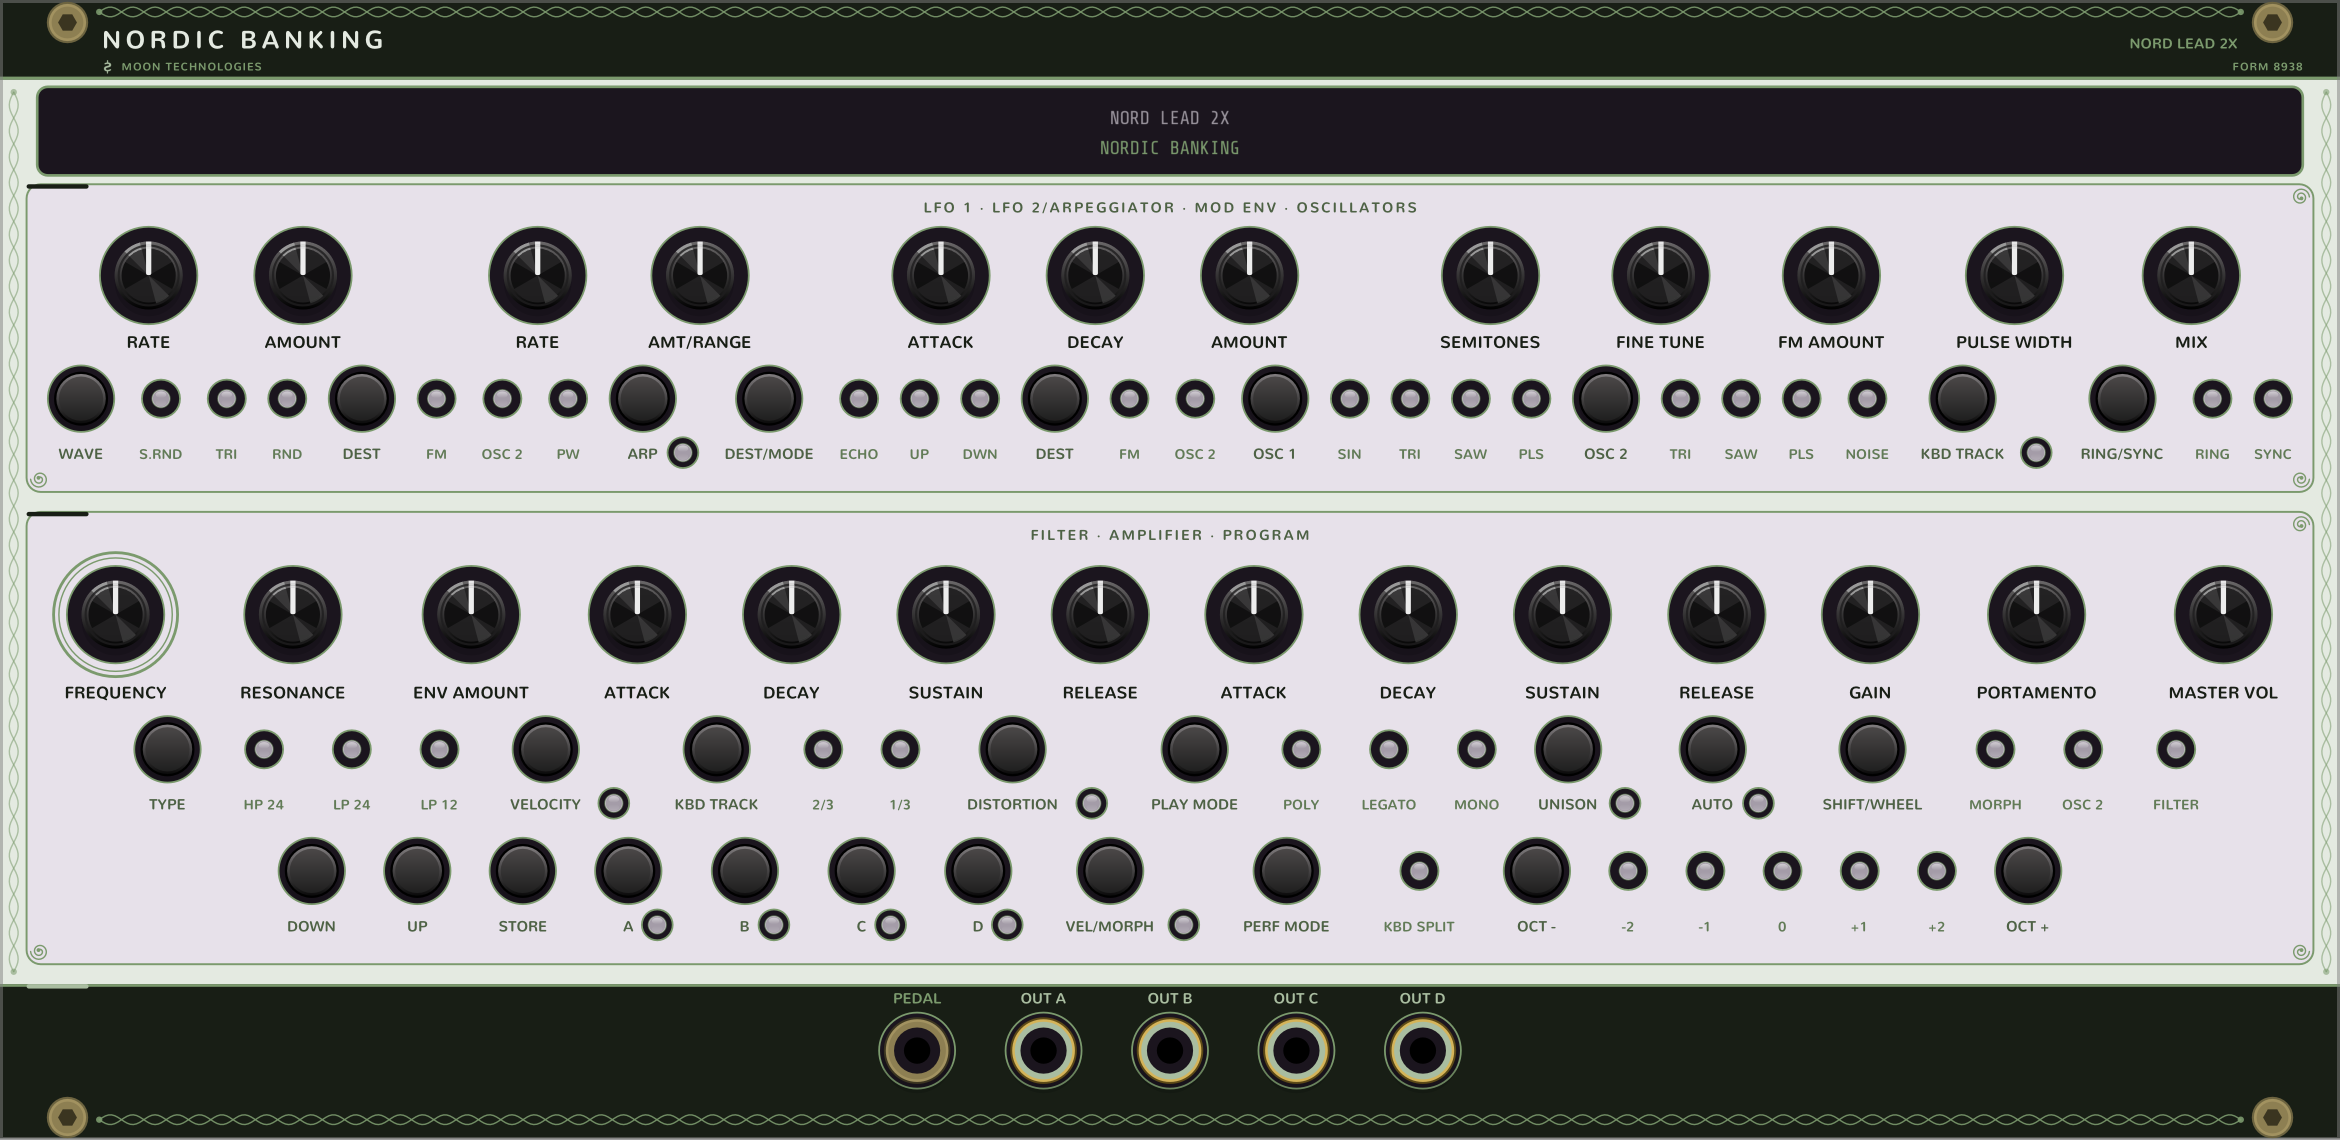
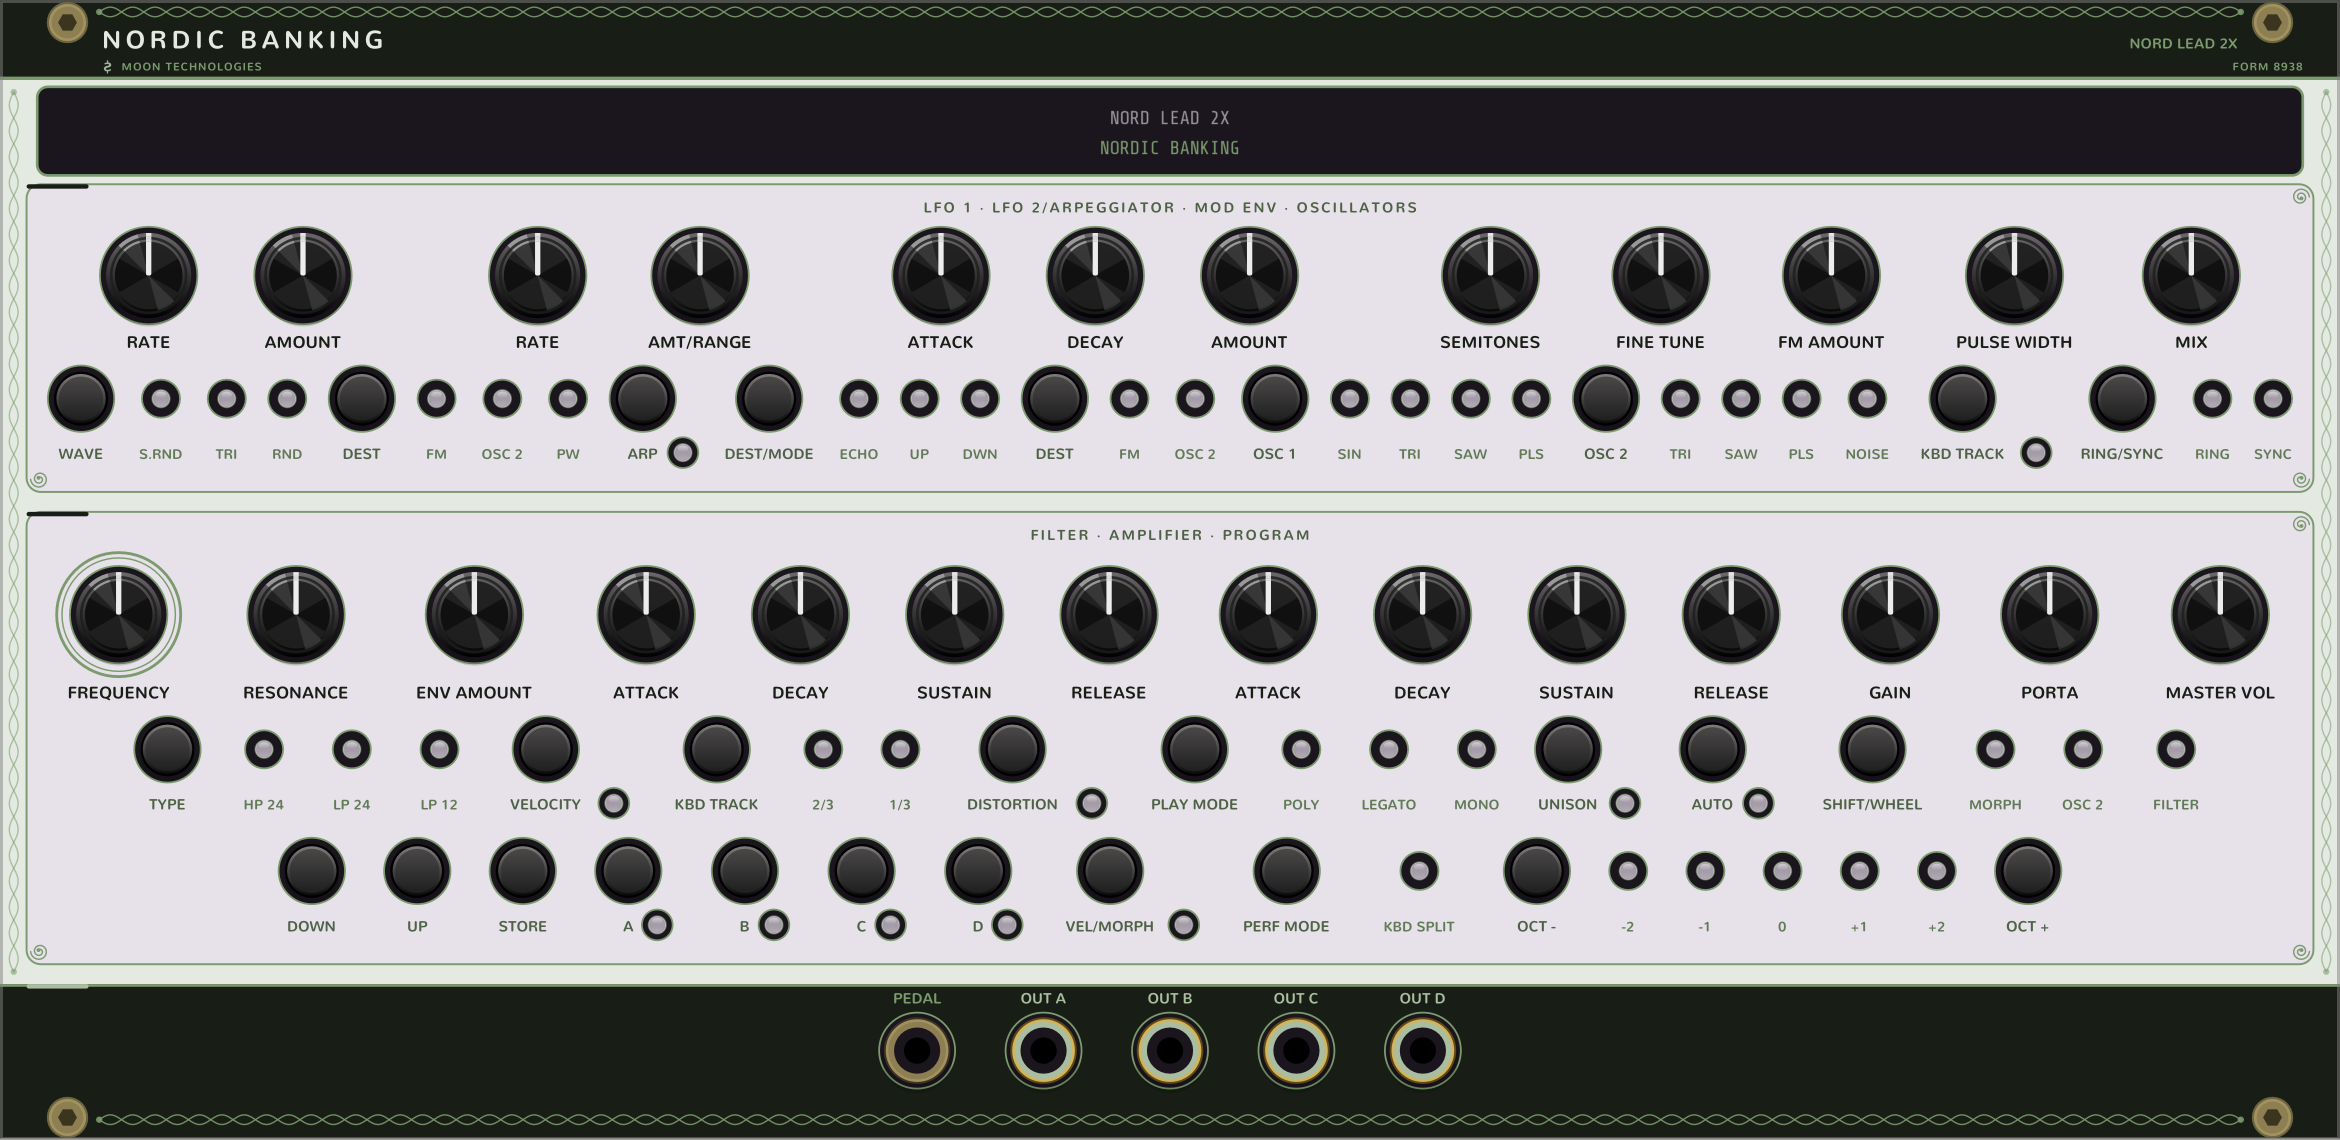
Three knob sizes: Contagion and Nordic build the standard knob; Contagion preset glass
The family has three knob sizes -- large (RoundLargeBlackKnob), standard
(RoundBlackKnob) and small (Trimpot). Contagion and Nordic Banking declared
standard knobs in their specs but built Rack's 7.7 mm RoundSmallBlackKnob, so
their seats and clearances were sized for a knob a millimetre bigger than the
one on the panel. They now build RoundBlackKnob, matching the specs; the panel
art is unchanged. (A Trimpot was tried first and bought no width: label widths
set those panels' pitch.) Nordic's PORTAMENTO label becomes PORTA.

Contagion also: the PRESET glass is composed from the edit buffer's name and the
sound's label in single mode, so it no longer depends on catching the program
screen on the LCD; a lower-case bank letter (an edited sound) is read as its
bank; FILTERS EDIT is no longer counted as a menu.

diff --git a/src/NordicBanking/Panel.hpp b/src/NordicBanking/Panel.hpp
@@ -83,20 +83,20 @@ static const Label LABELS[] = {
 	{249.7600f,  51.8517f,  5.80f, 0.00f, LIME_DARK, NVG_ALIGN_CENTER | NVG_ALIGN_BASELINE, false, "RING"},
 	{256.6029f,  51.8517f,  5.80f, 0.00f, LIME_DARK, NVG_ALIGN_CENTER | NVG_ALIGN_BASELINE, false, "SYNC"},
 	{132.0800f,  60.9847f,  6.00f, 0.60f, SAGE_DARK, NVG_ALIGN_CENTER | NVG_ALIGN_BASELINE, false, "FILTER · AMPLIFIER · PROGRAM"},
-	{ 13.0475f,  78.8915f,  7.00f, 0.00f, INK      , NVG_ALIGN_CENTER | NVG_ALIGN_BASELINE, false, "FREQUENCY"},
-	{ 33.0685f,  78.8915f,  7.00f, 0.00f, INK      , NVG_ALIGN_CENTER | NVG_ALIGN_BASELINE, false, "RESONANCE"},
-	{ 53.2016f,  78.8915f,  7.00f, 0.00f, INK      , NVG_ALIGN_CENTER | NVG_ALIGN_BASELINE, false, "ENV AMOUNT"},
-	{ 71.9545f,  78.8915f,  7.00f, 0.00f, INK      , NVG_ALIGN_CENTER | NVG_ALIGN_BASELINE, false, "ATTACK"},
-	{ 89.3745f,  78.8915f,  7.00f, 0.00f, INK      , NVG_ALIGN_CENTER | NVG_ALIGN_BASELINE, false, "DECAY"},
-	{106.7945f,  78.8915f,  7.00f, 0.00f, INK      , NVG_ALIGN_CENTER | NVG_ALIGN_BASELINE, false, "SUSTAIN"},
-	{124.2145f,  78.8915f,  7.00f, 0.00f, INK      , NVG_ALIGN_CENTER | NVG_ALIGN_BASELINE, false, "RELEASE"},
-	{141.5554f,  78.8915f,  7.00f, 0.00f, INK      , NVG_ALIGN_CENTER | NVG_ALIGN_BASELINE, false, "ATTACK"},
-	{158.9754f,  78.8915f,  7.00f, 0.00f, INK      , NVG_ALIGN_CENTER | NVG_ALIGN_BASELINE, false, "DECAY"},
-	{176.3954f,  78.8915f,  7.00f, 0.00f, INK      , NVG_ALIGN_CENTER | NVG_ALIGN_BASELINE, false, "SUSTAIN"},
-	{193.8154f,  78.8915f,  7.00f, 0.00f, INK      , NVG_ALIGN_CENTER | NVG_ALIGN_BASELINE, false, "RELEASE"},
-	{211.1564f,  78.8915f,  7.00f, 0.00f, INK      , NVG_ALIGN_CENTER | NVG_ALIGN_BASELINE, false, "GAIN"},
-	{229.9093f,  78.8915f,  7.00f, 0.00f, INK      , NVG_ALIGN_CENTER | NVG_ALIGN_BASELINE, false, "PORTAMENTO"},
-	{251.0005f,  78.8915f,  7.00f, 0.00f, INK      , NVG_ALIGN_CENTER | NVG_ALIGN_BASELINE, false, "MASTER VOL"},
+	{ 13.3977f,  78.8915f,  7.00f, 0.00f, INK      , NVG_ALIGN_CENTER | NVG_ALIGN_BASELINE, false, "FREQUENCY"},
+	{ 33.4188f,  78.8915f,  7.00f, 0.00f, INK      , NVG_ALIGN_CENTER | NVG_ALIGN_BASELINE, false, "RESONANCE"},
+	{ 53.5518f,  78.8915f,  7.00f, 0.00f, INK      , NVG_ALIGN_CENTER | NVG_ALIGN_BASELINE, false, "ENV AMOUNT"},
+	{ 72.9415f,  78.8915f,  7.00f, 0.00f, INK      , NVG_ALIGN_CENTER | NVG_ALIGN_BASELINE, false, "ATTACK"},
+	{ 90.3615f,  78.8915f,  7.00f, 0.00f, INK      , NVG_ALIGN_CENTER | NVG_ALIGN_BASELINE, false, "DECAY"},
+	{107.7815f,  78.8915f,  7.00f, 0.00f, INK      , NVG_ALIGN_CENTER | NVG_ALIGN_BASELINE, false, "SUSTAIN"},
+	{125.2015f,  78.8915f,  7.00f, 0.00f, INK      , NVG_ALIGN_CENTER | NVG_ALIGN_BASELINE, false, "RELEASE"},
+	{143.1792f,  78.8915f,  7.00f, 0.00f, INK      , NVG_ALIGN_CENTER | NVG_ALIGN_BASELINE, false, "ATTACK"},
+	{160.5992f,  78.8915f,  7.00f, 0.00f, INK      , NVG_ALIGN_CENTER | NVG_ALIGN_BASELINE, false, "DECAY"},
+	{178.0192f,  78.8915f,  7.00f, 0.00f, INK      , NVG_ALIGN_CENTER | NVG_ALIGN_BASELINE, false, "SUSTAIN"},
+	{195.4392f,  78.8915f,  7.00f, 0.00f, INK      , NVG_ALIGN_CENTER | NVG_ALIGN_BASELINE, false, "RELEASE"},
+	{213.4169f,  78.8915f,  7.00f, 0.00f, INK      , NVG_ALIGN_CENTER | NVG_ALIGN_BASELINE, false, "GAIN"},
+	{231.3947f,  78.8915f,  7.00f, 0.00f, INK      , NVG_ALIGN_CENTER | NVG_ALIGN_BASELINE, false, "PORTA"},
+	{250.6503f,  78.8915f,  7.00f, 0.00f, INK      , NVG_ALIGN_CENTER | NVG_ALIGN_BASELINE, false, "MASTER VOL"},
 	{ 18.9066f,  91.4363f,  6.20f, 0.00f, SAGE_DARK, NVG_ALIGN_CENTER | NVG_ALIGN_BASELINE, false, "TYPE"},
 	{ 29.8130f,  91.4363f,  5.80f, 0.00f, LIME_DARK, NVG_ALIGN_CENTER | NVG_ALIGN_BASELINE, false, "HP 24"},
 	{ 39.7158f,  91.4363f,  5.80f, 0.00f, LIME_DARK, NVG_ALIGN_CENTER | NVG_ALIGN_BASELINE, false, "LP 24"},
@@ -192,20 +192,20 @@ static const Vec RINGMOD_POS = Vec(249.7600, 45.0058);
 static const Vec SYNC_POS = Vec(256.6029, 45.0058);
 static const Vec ARP_POS = Vec(77.0945, 51.0958);
 static const Vec OSC2_KBD_POS = Vec(229.8670, 51.0958);
-static const Vec CUTOFF_POS = Vec(13.0475, 69.3847);
-static const Vec RESO_POS = Vec(33.0685, 69.3847);
-static const Vec F_ENV_POS = Vec(53.2016, 69.3847);
-static const Vec F_A_POS = Vec(71.9545, 69.3847);
-static const Vec F_D_POS = Vec(89.3745, 69.3847);
-static const Vec F_S_POS = Vec(106.7945, 69.3847);
-static const Vec F_R_POS = Vec(124.2145, 69.3847);
-static const Vec A_A_POS = Vec(141.5554, 69.3847);
-static const Vec A_D_POS = Vec(158.9754, 69.3847);
-static const Vec A_S_POS = Vec(176.3954, 69.3847);
-static const Vec A_R_POS = Vec(193.8154, 69.3847);
-static const Vec GAIN_POS = Vec(211.1564, 69.3847);
-static const Vec PORTA_POS = Vec(229.9093, 69.3847);
-static const Vec VOLUME_POS = Vec(251.0005, 69.3847);
+static const Vec CUTOFF_POS = Vec(13.3977, 69.3847);
+static const Vec RESO_POS = Vec(33.4188, 69.3847);
+static const Vec F_ENV_POS = Vec(53.5518, 69.3847);
+static const Vec F_A_POS = Vec(72.9415, 69.3847);
+static const Vec F_D_POS = Vec(90.3615, 69.3847);
+static const Vec F_S_POS = Vec(107.7815, 69.3847);
+static const Vec F_R_POS = Vec(125.2015, 69.3847);
+static const Vec A_A_POS = Vec(143.1792, 69.3847);
+static const Vec A_D_POS = Vec(160.5992, 69.3847);
+static const Vec A_S_POS = Vec(178.0192, 69.3847);
+static const Vec A_R_POS = Vec(195.4392, 69.3847);
+static const Vec GAIN_POS = Vec(213.4169, 69.3847);
+static const Vec PORTA_POS = Vec(231.3947, 69.3847);
+static const Vec VOLUME_POS = Vec(250.6503, 69.3847);
 static const Vec B_FTYPE_POS = Vec(18.9066, 84.5904);
 static const Vec HP24_POS = Vec(29.8130, 84.5904);
 static const Vec LP24_POS = Vec(39.7158, 84.5904);

diff --git a/src/Contagion/Contagion.cpp b/src/Contagion/Contagion.cpp
@@ -472,8 +472,9 @@ struct Contagion : Module {
 				}
 			}
 			// An EDIT lamp lit lately means a menu is up; the program screen is the one with a name on
-			// its first line and no menu, held still for half a second.
-			static const int EDIT_LEDS[8] = { 0, 10, 16, 20, 45, 46, 47, 50 };
+			// its first line and no menu, held still for half a second. FILTERS EDIT (50) is not here: the
+			// firmware leaves it lit on the program screen itself.
+			static const int EDIT_LEDS[7] = { 0, 10, 16, 20, 45, 46, 47 };
 			bool menu = false;
 			for (int e : EDIT_LEDS) if (lit(e) > 0.2f) menu = true;
 			editHold = menu ? 40 : std::max(0, editHold - 1);
@@ -490,9 +491,26 @@ struct Contagion : Module {
 				else if (cur >= 0) presetIndex = cur;
 				bool named = false;
 				for (int k = 2; k < 16; k++) if (snap.chars[k] != ' ' && snap.chars[k] != 0) named = true;
-				if (named && editHold == 0) {
+				if (named && cur >= 0 && editHold == 0) {
 					if (++presetStill >= 20) { std::memcpy(snap.preset, snap.chars, 32); snap.havePreset = true; }
 				} else presetStill = 0;
+				// In single mode the PRESET glass is composed from the edit buffer's own name and the sound's
+				// label, in the layout the unit writes ("A37 FuturwldSV"), so it does not hang on catching the
+				// program screen on the LCD.
+				if (lit(49) > 0.5f) {
+					uint8_t buf[vc::KnobSync::EDIT_BUFFER];
+					v.xram(0, buf, sizeof(buf));
+					const std::string label = vc::Presets::label(presetIndex / vc::Presets::PER_BANK, presetIndex % vc::Presets::PER_BANK);
+					const uint8_t* name = buf + vc::Presets::NAME_AT;
+					bool printable = false;
+					for (int k = 0; k < 10; k++) if (name[k] > 32 && name[k] < 127) printable = true;
+					if (printable) {
+						std::memset(snap.preset, ' ', 32);
+						for (size_t k = 0; k < label.size() && k < 4; k++) snap.preset[2 + k] = uint8_t(label[k]);
+						for (int k = 0; k < 10; k++) snap.preset[6 + k] = (name[k] >= 32 && name[k] < 127) ? name[k] : ' ';
+						snap.havePreset = true;
+					}
+				}
 				// 160 KB of battery RAM: copy it for the patch every few seconds.
 				if (--ramCountdown <= 0) { v.copyRam(globalRam, bankRam); ramCountdown = 120; }
 				snapMutex.unlock();
@@ -553,7 +571,7 @@ namespace {
 
 /** A knob that is also a button: a click that does not turn it presses the unit's key. Turning is the
     stock knob's own, so tooltips, snapping, scroll-wheel and double-click-to-reset all stay. */
-struct PushKnob : RoundSmallBlackKnob {
+struct PushKnob : RoundBlackKnob {
 	Contagion* module = nullptr;
 	int pushKey = -1;
 	void onAction(const ActionEvent& e) override {
@@ -771,7 +789,7 @@ struct ContagionWidget : ModuleWidget {
 			panel::F_DEC_POS, panel::F_SUS_POS, panel::F_REL_POS, panel::A_ATT_POS, panel::A_DEC_POS, panel::A_SUS_POS,
 			panel::A_REL_POS };
 		for (int i = 0; i < 32; i++)
-			addParam(createParamCentered<RoundSmallBlackKnob>(panel::mm(pots[i].x, pots[i].y), module, Contagion::POT_PARAM + i));
+			addParam(createParamCentered<RoundBlackKnob>(panel::mm(pots[i].x, pots[i].y), module, Contagion::POT_PARAM + i));
 
 		// The buttons the panel still has. The rest of the unit's 35 are the selector and endless
 		// knobs below, which press them.
@@ -804,7 +822,7 @@ struct ContagionWidget : ModuleWidget {
 		}
 		// Endless knobs: a detent is a press of the - or + key.
 		{
-			RoundSmallBlackKnob* tempo = createParamCentered<RoundSmallBlackKnob>(panel::mm(panel::TEMPO_POS.x, panel::TEMPO_POS.y), module, Contagion::TEMPO_PARAM);
+			RoundBlackKnob* tempo = createParamCentered<RoundBlackKnob>(panel::mm(panel::TEMPO_POS.x, panel::TEMPO_POS.y), module, Contagion::TEMPO_PARAM);
 			tempo->snap = true;
 			tempo->speed = 2.f;
 			addParam(tempo);

diff --git a/src/Contagion/Presets.hpp b/src/Contagion/Presets.hpp
@@ -68,14 +68,16 @@ struct Presets {
 		return { uint8_t(0xB0 | ch), 32, uint8_t(bank & 7), uint8_t(0xC0 | ch), uint8_t(prog & 127) };
 	}
 
-	/** Which sound an LCD's first line is showing ("A0  AutoBendBC", "..C127 ..."): bank * 128 + program,
+	/** Which sound an LCD's first line is showing ("A0  AutoBendBC", "a0 ..." once edited, "..C127 ..."): bank * 128 + program,
 	    or -1 when it is not showing one. */
 	static int fromScreen(const uint8_t* line) {
 		for (int i = 0; i < 4; i++) {
-			if (line[i] < 'A' || line[i] > 'H') continue;
+			// The bank letter goes lowercase once the sound has been edited ("a0 ...").
+			const int letter = (line[i] >= 'a' && line[i] <= 'h') ? line[i] - 'a' + 'A' : line[i];
+			if (letter < 'A' || letter > 'H') continue;
 			int n = 0, d = 0, j = i + 1;
 			while (j < 16 && line[j] >= '0' && line[j] <= '9' && d < 3) { n = n * 10 + (line[j] - '0'); j++; d++; }
-			if (d > 0 && n < PER_BANK) return (line[i] - 'A') * PER_BANK + n;
+			if (d > 0 && n < PER_BANK) return (letter - 'A') * PER_BANK + n;
 		}
 		return -1;
 	}

diff --git a/tools/panels/NordicBanking.py b/tools/panels/NordicBanking.py
@@ -65,7 +65,7 @@ P.sections = [
         Row([Knob("cutoff", "FREQUENCY", primary=True), Knob("reso", "RESONANCE"), Knob("f_env", "ENV AMOUNT"),
              Knob("f_a", "ATTACK"), Knob("f_d", "DECAY"), Knob("f_s", "SUSTAIN"), Knob("f_r", "RELEASE"),
              Knob("a_a", "ATTACK"), Knob("a_d", "DECAY"), Knob("a_s", "SUSTAIN"), Knob("a_r", "RELEASE"),
-             Knob("gain", "GAIN"), Knob("porta", "PORTAMENTO"), Knob("volume", "MASTER VOL")]),
+             Knob("gain", "GAIN"), Knob("porta", "PORTA"), Knob("volume", "MASTER VOL")]),
         Row([Button("b_ftype", "TYPE")]
             + leds(["hp24", "lp24", "lp12"], ["HP 24", "LP 24", "LP 12"])
             + [Button("b_velo", "VELOCITY", light="velocity"), Button("b_fkbd", "KBD TRACK")]

diff --git a/src/NordicBanking/NordicBanking.cpp b/src/NordicBanking/NordicBanking.cpp
@@ -326,7 +326,7 @@ struct NordicBankingWidget : ModuleWidget {
 			panel::F_A_POS, panel::F_D_POS, panel::F_S_POS, panel::F_R_POS, panel::A_A_POS, panel::A_D_POS,
 			panel::A_S_POS, panel::A_R_POS, panel::GAIN_POS, panel::VOLUME_POS };
 		for (int i = 0; i < 26; i++)
-			addParam(createParamCentered<RoundSmallBlackKnob>(panel::mm(knobs[i].x, knobs[i].y), module, NordicBanking::KNOB_PARAM + i));
+			addParam(createParamCentered<RoundBlackKnob>(panel::mm(knobs[i].x, knobs[i].y), module, NordicBanking::KNOB_PARAM + i));
 
 		// In nb::BUTTONS order.
 		const Vec buttons[28] = { panel::B_OSC1_POS, panel::B_OSC2_POS, panel::B_KBD2_POS, panel::B_RINGSYNC_POS,
